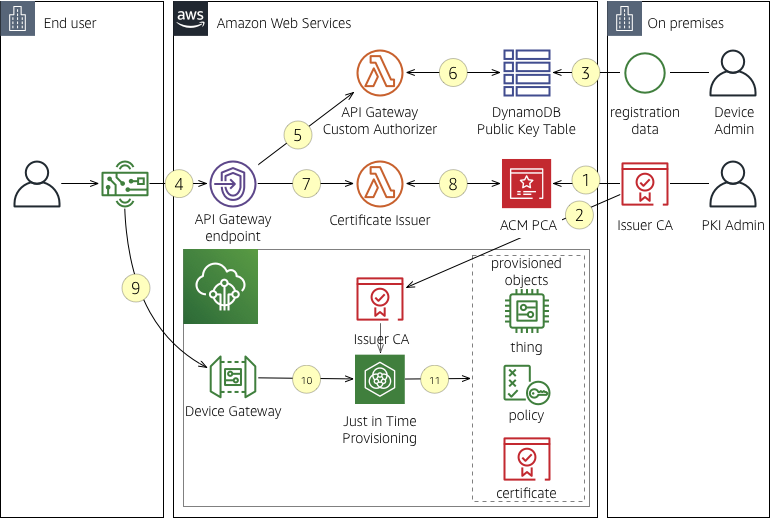
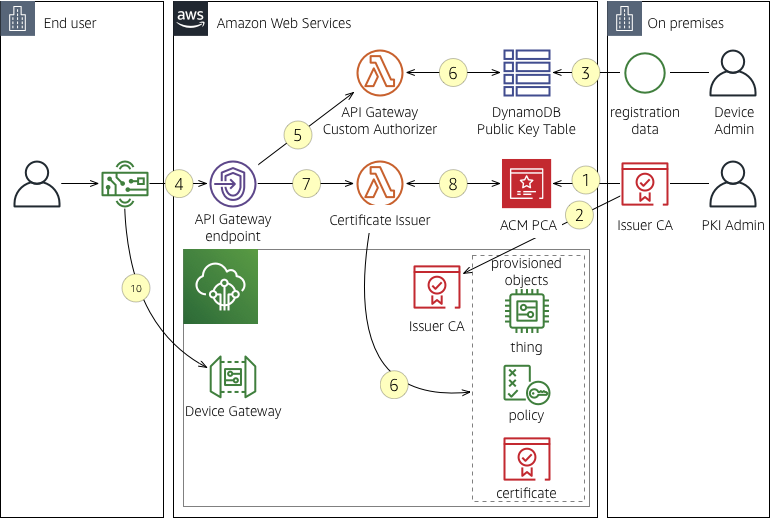
modify the acm-pca flow to directly create objects to remove the JITR/JITP requirement

Changed region(s): [[0.3424, 0.4942, 0.6226, 0.8649], [0.6226, 0.4633, 0.6848, 0.4942], [0.7782, 0.3707, 0.8093, 0.4015]]

diff --git a/README.md b/README.md
@@ -155,7 +155,10 @@ defined by the following diagram.
    the client; the client should interrogate that a 200 or otherwise
    has been received, and upon a 200 persist the payload to the
    appropriate nonvolatile memory resource.
-9. The device recogizes that there is a client certificate available
+9. Before the certificate is sent back to API Gateway in step 8, the
+   certificate is registered and related objects are instantiated in
+   the IoT Core registry.
+10. The device recogizes that there is a client certificate available
    to use for authentication. The client attempts to connect to the
    AWS IoT Core endpoint for the first time.
    
